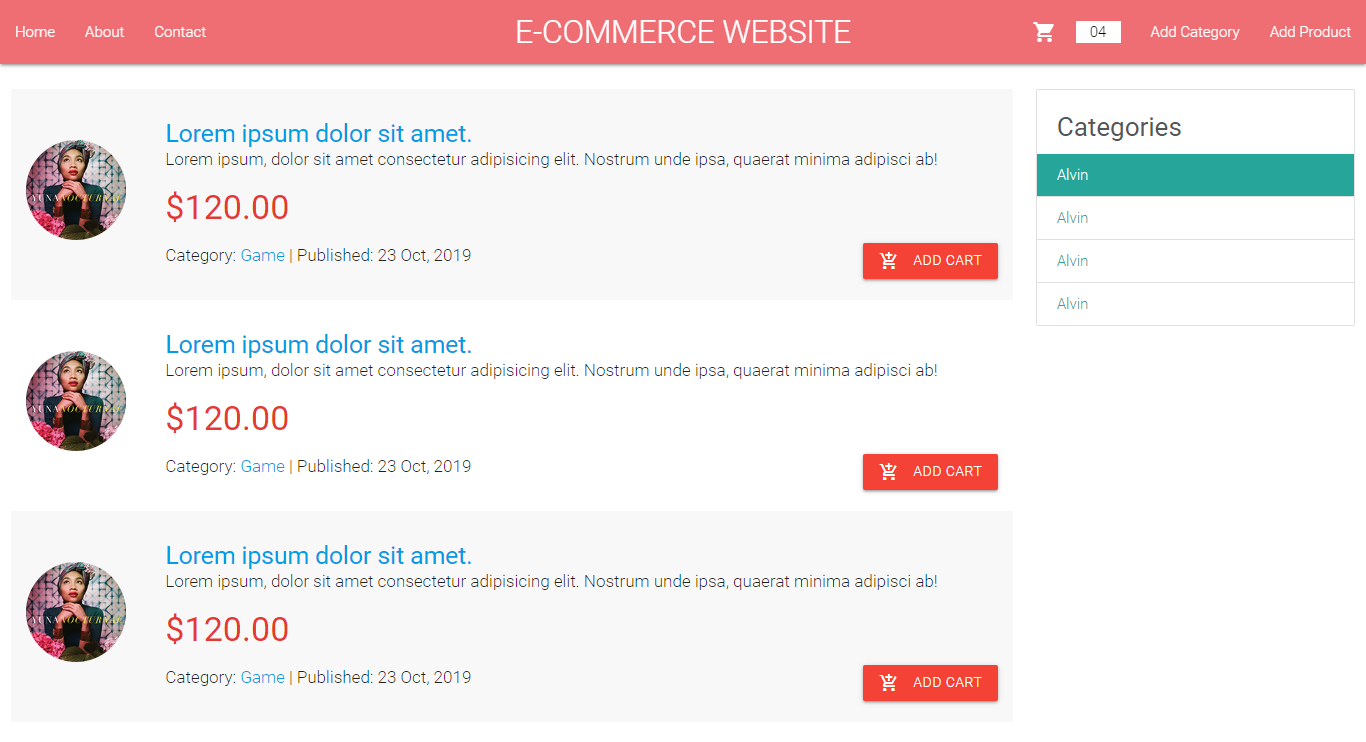
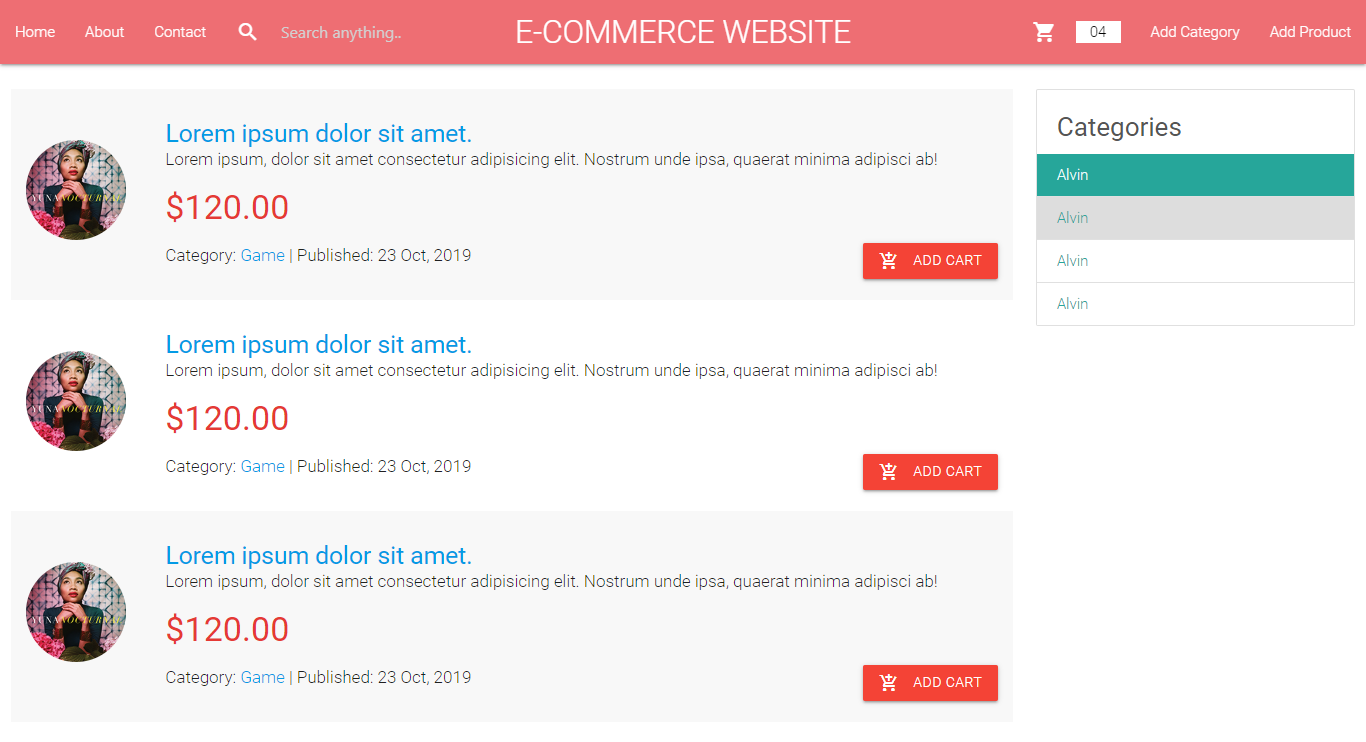
final commit

Changed region(s): [[0.7379, 0.248, 1.0, 0.341], [0.2152, 0.031, 0.3075, 0.062], [0.1537, 0.031, 0.1845, 0.062]]

diff --git a/index.html b/index.html
@@ -39,12 +39,29 @@
                 <li><a href="index.html">Home</a></li>
                 <li><a href="about.html">About</a></li>
                 <li><a href="contact.html">Contact</a></li>
+                <li>
+                  <div class="input-field" style="height: auto;">
+                    <input
+                      id="search"
+                      type="search"
+                      placeholder="Search anything.."
+                      required
+                    />
+                    <label class="label-icon" for="search"
+                      ><i class="material-icons">search</i></label
+                    >
+                    <i class="material-icons">close</i>
+                  </div>
+                </li>
               </ul>
               <a href="#" class="brand-logo center">E-COMMERCE WEBSITE</a>
               <ul id="nav-mobile" class="right hide-on-med-and-down">
-                  <li>
-                    <a href="checkout.html"><i class="material-icons left">shopping_cart</i><span class="badge white" style="color: #000;">04</span></a>
-                  </li>
+                <li>
+                  <a href="checkout.html"
+                    ><i class="material-icons left">shopping_cart</i
+                    ><span class="badge white" style="color: #000;">04</span></a
+                  >
+                </li>
                 <li>
                   <a href="add-category.html" target="_blank">Add Category</a>
                 </li>
@@ -85,8 +102,13 @@
                   </h4>
                   <p>
                     Category: <a href="">Game</a> | Published: 23 Oct, 2019
-                    <a href="//" class="waves-effect waves-light btn red right" class="right">
-                      <i class="material-icons left">add_shopping_cart</i>Add Cart
+                    <a
+                      href="//"
+                      class="waves-effect waves-light btn red right"
+                      class="right"
+                    >
+                      <i class="material-icons left">add_shopping_cart</i>Add
+                      Cart
                     </a>
                   </p>
                 </td>
@@ -117,8 +139,13 @@
                   </h4>
                   <p>
                     Category: <a href="">Game</a> | Published: 23 Oct, 2019
-                    <a href="//" class="waves-effect waves-light btn red right" class="right">
-                      <i class="material-icons left">add_shopping_cart</i>Add Cart
+                    <a
+                      href="//"
+                      class="waves-effect waves-light btn red right"
+                      class="right"
+                    >
+                      <i class="material-icons left">add_shopping_cart</i>Add
+                      Cart
                     </a>
                   </p>
                 </td>
@@ -149,8 +176,13 @@
                   </h4>
                   <p>
                     Category: <a href="">Game</a> | Published: 23 Oct, 2019
-                    <a href="//" class="waves-effect waves-light btn red right" class="right">
-                      <i class="material-icons left">add_shopping_cart</i>Add Cart
+                    <a
+                      href="//"
+                      class="waves-effect waves-light btn red right"
+                      class="right"
+                    >
+                      <i class="material-icons left">add_shopping_cart</i>Add
+                      Cart
                     </a>
                   </p>
                 </td>

diff --git a/search.html b/search.html
@@ -55,7 +55,19 @@
             </div>
           </nav>
         </div>
-        
+
+        <div class="col s12">
+          <div class="row">
+            <form action="/search.html" method="post">
+              <div class="input-field col s10">
+                <input type="text" class="center-align" placeholder="Search anything.." class="validate">
+              </div>
+              <div class="input-field col s2">
+                <input type="submit" class="waves-effect waves-light btn" style="width: 100%; height: 48px; line-height: 48px;" value="Search">
+              </div>
+            </form>
+          </div>
+        </div>
 
         <div class="col s9">
           <div class="row">
@@ -65,7 +77,7 @@
                   <div class="col s12">
                     <a href="#!" class="breadcrumb">First</a>
                     <a href="#!" class="breadcrumb">Second</a>
-                    <a href="#!" class="breadcrumb">Third</a>
+                    <a href="#!" class="breadcrumb">Search</a>
                   </div>
                 </div>
               </nav>

diff --git a/checkout.html b/checkout.html
@@ -103,6 +103,13 @@
                 <td colspan="4" style="font-weight: bold;" class="right-align">Total: </td>
                 <td>$240.00</td>
               </tr>
+              <tr>
+                <td colspan="5" class="center-align">
+                    <button class="btn waves-effect waves-light" type="submit" name="action">Proceed Checkout
+                        <i class="material-icons right">send</i>
+                      </button>
+                </td>
+              </tr>
             </tfoot>
           </table>
         </div>
